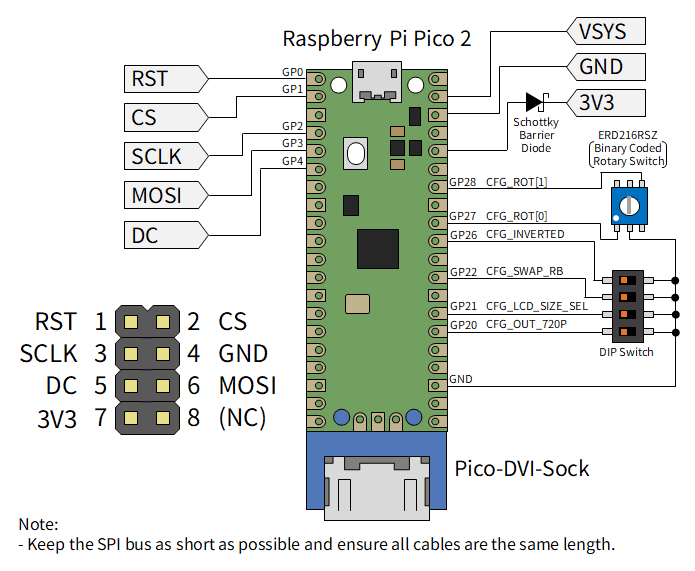
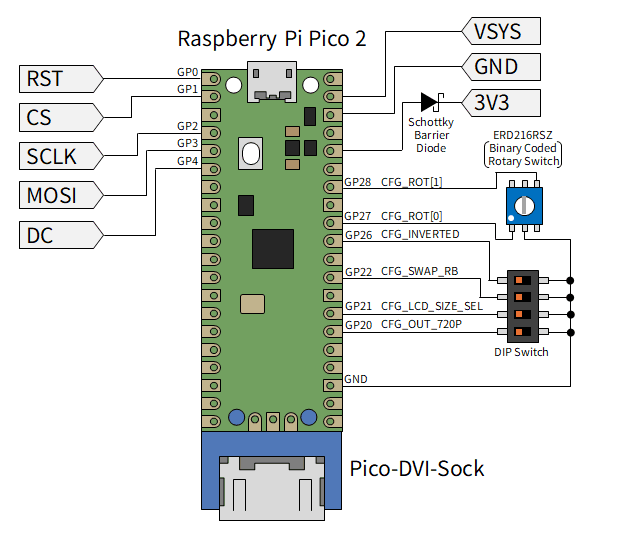
fix README

diff --git a/example/pico2_ssd1306/README.md b/example/pico2_ssd1306/README.md
@@ -1,10 +1,12 @@
 # LcdTap-Pico2 for SSD1306
 
-## Schematics and Recommended Header Pinout
+## Schematics
+
+- Keep the SPI bus as short as possible and ensure all cables are the same length.
+- The rotary switch can be substituted with a DIP switch.
+- See also: [Recommended Header Pinout](../../README.md#recommended-header-pinout)
 
 ![](./image/schematics.png)
-
-The rotary switch can be substituted with a DIP switch.
 
 ## Build instructions
 

diff --git a/example/pico2_st7789/README.md b/example/pico2_st7789/README.md
@@ -1,10 +1,12 @@
 # LcdTap-Pico2 for ST7789
 
-## Schematics and Recommended Header Pinout
+## Schematics
+
+- Keep the SPI/I2C bus as short as possible and ensure all cables are the same length.
+- The rotary switch can be substituted with a DIP switch.
+- See also: [Recommended Header Pinout](../../README.md#recommended-header-pinout)
 
 ![](./image/schematics.png)
-
-The rotary switch can be substituted with a DIP switch.
 
 ## Build instructions
 

diff --git a/example/pico2_universal/README.md b/example/pico2_universal/README.md
@@ -13,11 +13,12 @@ A universal LCD-to-DVI converter example for Raspberry Pi Pico 2. With an OSD (O
 > [!WARNING]
 > Parallel Mode has not been tested yet. Please let me know if it works!
 
-## Schematics and Recommended Header Pinout
+## Schematics
+
+- Keep the input bus as short as possible and ensure all cables are the same length.
+- See also: [Recommended Header Pinout](../../README.md#recommended-header-pinout)
 
 ![](./image/schematics.png)
-
-![](./image/header_pinout.png)
 
 ## OSD Menu
 

diff --git a/README.md b/README.md
@@ -46,6 +46,10 @@ instructions, pin assignment, and configuration details.
 
 https://github.com/user-attachments/assets/6f17d5dc-84d3-4a2a-a3ea-fca37591515f
 
+## Recommended Header Pinout
+
+![](./image/header_pinout.png)
+
 ## Configuration for M5Stack CoreS3
 
 ### Connection